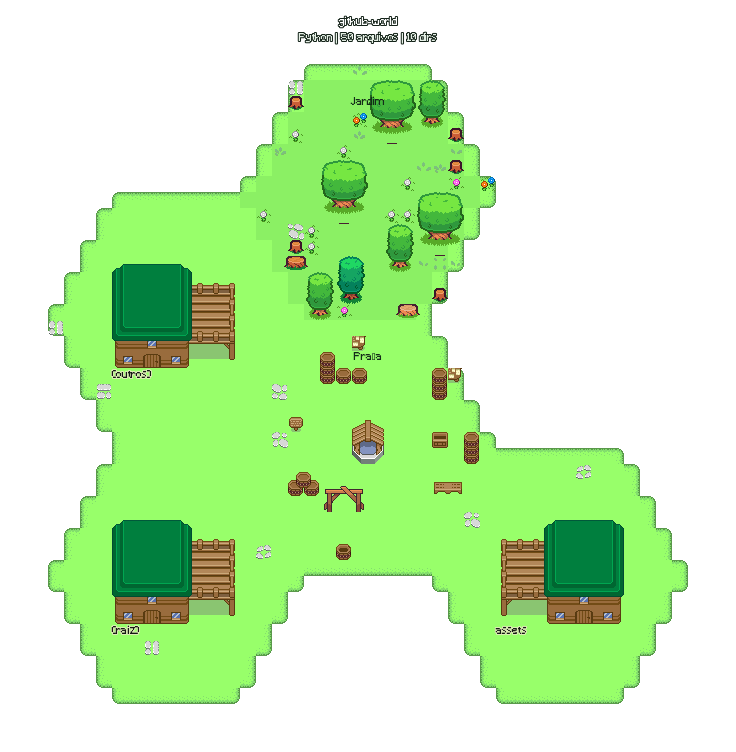
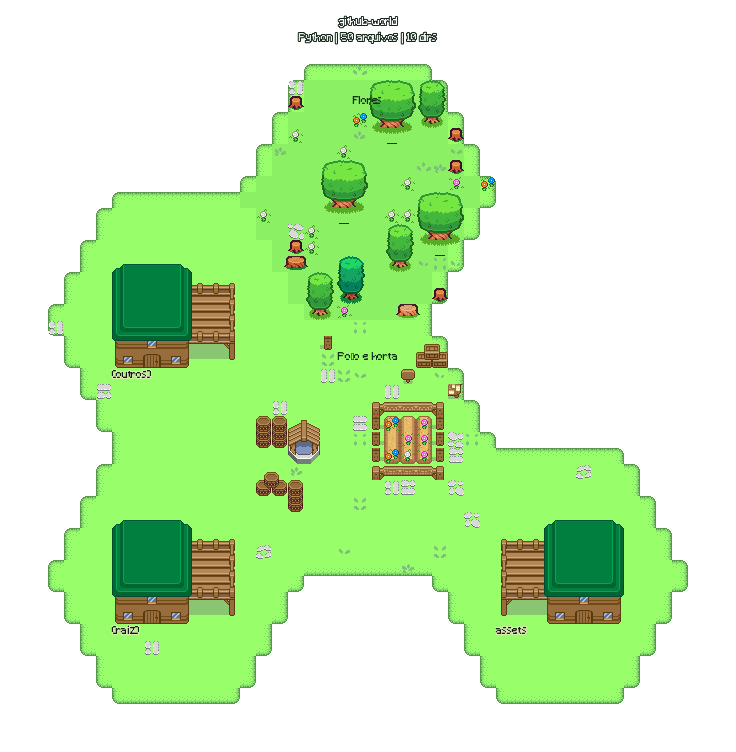
feat: implementação de um sistema de documentação que controla as características do mapa baseada no tamanho do repositório.

diff --git a/layout.py b/layout.py
@@ -5,7 +5,7 @@ import hashlib
 import random
 from assets import assets, DECORATION_GROUPS
 from repo_profile import DirectoryProfile
-from visual_config import flower_assets_for, tree_assets_for
+from visual_config import farm_settings, flower_assets_for, tree_assets_for
 
 TILE_SIZE = 16
 DIRECTIONS = ((1, 0), (1, -1), (0, -1), (-1, 0), (-1, 1), (0, 1))
@@ -42,6 +42,7 @@ class Island:
     width: int
     height: int
     objects: list = field(default_factory=list)
+    overlays: list = field(default_factory=list)
     paths: set = field(default_factory=set)
     occupied: set = field(default_factory=set)
     districts: list = field(default_factory=list)
@@ -57,6 +58,14 @@ class Island:
             return False
         self.occupied.update(cells)
         self.objects.append((name, x, y))
+        return True
+
+    def overlay(self, name, x, y, allowed=None):
+        tile = assets.get(name)
+        cells = {(a, b) for a in range(x, x+tile.width) for b in range(y, y+tile.height)}
+        if not cells <= (self.ground if allowed is None else allowed):
+            return False
+        self.overlays.append((name, x, y))
         return True
 
 
@@ -116,6 +125,7 @@ def build_colony(profile):
     for district in sorted(visible,key=lambda d: d.name):
         attach(modules,district.name,'house',profile.name)
     attach(modules,'garden0','garden',profile.name)
+    farm = farm_settings(profile)
     terrain = set().union(*(hex_cells(m.q, m.r) for m in modules))
     min_x, min_y = min(x for x,y in terrain), min(y for x,y in terrain)
     shift_x, shift_y = -min_x, -min_y
@@ -146,8 +156,48 @@ def build_colony(profile):
         elif m.kind == 'plaza':
             name = 'm13' if (profile.days_inactive or 0) > 90 else 'm18'
             if profile.days_inactive is None:
-                name = 'm21'
-            island.place(name,cx-1,cy-2,m.cells)
+                name = 'm18'
+            island.place(name,cx-5,cy-2,m.cells)
+            if farm['enabled']:
+                # A horta divide a praça com o poço. Pedras formam o limite
+                # visual e as flores usam uma camada acima dos canteiros.
+                bed_xs = list(range(cx+1,cx+4))[:farm['beds']]
+                bed_top, bed_bottom = cy-2, cy
+                farm_rng = random.Random(f'{profile.name}/farm')
+                for x in bed_xs:
+                    island.place('h',x,bed_top,m.cells)
+                fence_left, fence_right = bed_xs[0]-1, bed_xs[-1]+1
+                fence_top, fence_bottom = bed_top-1, bed_bottom+1
+                island.place('farm_fence_tl',fence_left,fence_top,m.cells)
+                island.place('farm_fence_tr',fence_right,fence_top,m.cells)
+                island.place('farm_fence_bl',fence_left,fence_bottom,m.cells)
+                island.place('farm_fence_br',fence_right,fence_bottom,m.cells)
+                for x in range(fence_left+1,fence_right):
+                    island.place('farm_fence_top',x,fence_top,m.cells)
+                    island.place('farm_fence_bottom',x,fence_bottom,m.cells)
+                for y in range(fence_top+1,fence_bottom):
+                    island.place('farm_fence_left',fence_left,y,m.cells)
+                    island.place('farm_fence_right',fence_right,y,m.cells)
+
+                # As pedras são sorteadas apenas no anel exterior da cerca.
+                outer_rocks = (
+                    [(x,fence_top-1) for x in range(fence_left-1,fence_right+2)]
+                    + [(x,fence_bottom+1) for x in range(fence_left-1,fence_right+2)]
+                    + [(fence_left-1,y) for y in range(fence_top,fence_bottom+1)]
+                    + [(fence_right+1,y) for y in range(fence_top,fence_bottom+1)]
+                )
+                outer_rocks = list(dict.fromkeys(outer_rocks))
+                farm_rng.shuffle(outer_rocks)
+                placed_rocks = 0
+                for x,y in outer_rocks:
+                    if island.place(f'r{farm_rng.randint(1,10)}',x,y,m.cells):
+                        placed_rocks += 1
+                        if placed_rocks >= farm['extra_rocks']:
+                            break
+                flower_spots = [(x,y) for y in range(bed_top,bed_bottom+1) for x in bed_xs]
+                farm_rng.shuffle(flower_spots)
+                for x,y in flower_spots[:farm['flowers']]:
+                    island.overlay(farm_rng.choice(DECORATION_GROUPS['flowers']),x,y,m.cells)
     lookup = {(m.q,m.r): m for m in modules}
     for m in modules:
         if m.parent is not None:
@@ -193,8 +243,15 @@ def build_colony(profile):
             decorate_exact(flowers)
             decorate([f'f{i}' for i in range(1,11)],6 + min(profile.max_depth,3))
         elif m.kind == 'plaza':
-            decorate(DECORATION_GROUPS['activity'],min(8,1+profile.recent_commits//5) if profile.recent_commits else 0)
-            decorate(['m21'],1)
+            cx,cy = m.center
+            # Barris agrupados num pequeno depósito, em vez de espalhados.
+            barrel_pattern = [
+                ('m9',cx-7,cy-2), ('m9',cx-6,cy-2),
+                ('m6',cx-7,cy+1), ('m9',cx-5,cy+2),
+            ]
+            for name,x,y in barrel_pattern[:farm['barrels']]:
+                island.place(name,x,y,m.cells)
+            decorate([f'f{i}' for i in range(1,11)],farm['grass'])
             if profile.has_docs:
                 decorate(DECORATION_GROUPS['signs'],1)
             if profile.has_tests:
@@ -211,6 +268,7 @@ def translate(island, dx, dy):
         return {(x+dx,y+dy) for x,y in points}
     island.ground, island.paths, island.occupied = map(move,(island.ground,island.paths,island.occupied))
     island.objects = [(name,x+dx,y+dy) for name,x,y in island.objects]
+    island.overlays = [(name,x+dx,y+dy) for name,x,y in island.overlays]
     island.districts = [(d,x+dx,y+dy) for d,x,y in island.districts]
     island.entrance = island.entrance[0]+dx,island.entrance[1]+dy
     island.exit = island.exit[0]+dx,island.exit[1]+dy

diff --git a/assets.py b/assets.py
@@ -26,6 +26,8 @@ ASSET_GLOSSARY = {
     "x": "Special tiles / entradas e outros elementos especiais",
 
     "m": "Map / elementos do mapa ou minimapa",
+
+    "h": "horta / horta",
 }
 
 
@@ -114,6 +116,20 @@ assets.add(Tile(
     Ilhas,
     col=2,   # ajustar
     row=3
+))
+
+
+# =========================
+# horta
+# =========================
+
+assets.add(Tile(
+    "h",
+    Ilhas,
+    col=15,
+    row=9,
+    width=1,
+    height=3
 ))
 
 
@@ -738,7 +754,18 @@ assets.add(Tile("grass7", grama, col=12, row=2))
 assets.add(Tile("grass8", grama, col=13, row=2))
 
 DECORATION_GROUPS["flowers"] = ["flower1", "flower2", "flower3"]
-ASSET_GLOSSARY.update({"t": "Árvores", "flower": "Flores", "wood": "Madeira antiga", "floor": "Pisos antigos", "grass": "Grama antiga", "y": "Mapa"})
+
+# Cerca modular da horta: cantos, laterais e segmentos horizontais.
+assets.add(Tile("farm_fence_tl", Ilhas, col=5, row=4))
+assets.add(Tile("farm_fence_top", Ilhas, col=6, row=4))
+assets.add(Tile("farm_fence_tr", Ilhas, col=7, row=4))
+assets.add(Tile("farm_fence_left", Ilhas, col=5, row=5))
+assets.add(Tile("farm_fence_right", Ilhas, col=7, row=5))
+assets.add(Tile("farm_fence_bl", Ilhas, col=5, row=6))
+assets.add(Tile("farm_fence_bottom", Ilhas, col=6, row=6))
+assets.add(Tile("farm_fence_br", Ilhas, col=7, row=6))
+
+ASSET_GLOSSARY.update({"t": "Árvores", "flower": "Flores", "farm_fence": "Cerca da horta", "wood": "Madeira antiga", "floor": "Pisos antigos", "grass": "Grama antiga", "y": "Mapa"})
 
 # Centro do bloco de terra; e1 é decorativo no tileset consolidado.
 assets.add(Tile('path1', Ilhas, col=1, row=6))

diff --git a/renderer.py b/renderer.py
@@ -92,6 +92,8 @@ def render_map(islands, dimensions):
                 paste_asset(canvas, 'path1', x,y)
         for name,x,y in sorted(island.objects, key=lambda obj: (obj[2]+assets.get(obj[0]).height,obj[1])):
             paste_asset(canvas,name,x,y)
+        for name,x,y in sorted(island.overlays, key=lambda obj: (obj[2],obj[1])):
+            paste_asset(canvas,name,x,y)
         # Rótulos próprios para identificar os bairros representados.
         for district,x,y in island.districts:
             text = district.name
@@ -103,7 +105,7 @@ def render_map(islands, dimensions):
         title = p.name + (' *' if p.incomplete else '')
         draw.text((center,(island.y-3)*TILE_SIZE),title,font=font,anchor='mt',fill='white',stroke_width=1,stroke_fill=(20,35,25,255))
         draw.text((center,(island.y-2)*TILE_SIZE),f'{p.main_language} | {p.files} arquivos | {p.directories} dirs',font=font,anchor='mt',fill=(230,240,230,255),stroke_width=1,stroke_fill=(20,35,25,255))
-        labels = {'plaza': 'Praça', 'garden': 'Jardim', 'workshop': 'Oficina', 'tests': 'Testes', 'docs': 'Documentação'}
+        labels = {'plaza': 'Poço e horta', 'garden': 'Flores', 'workshop': 'Oficina', 'tests': 'Testes', 'docs': 'Documentação'}
         for module in island.modules:
             if module.kind in labels:
                 cx,cy = module.center

diff --git a/visual_config.py b/visual_config.py
@@ -87,3 +87,17 @@ def flower_assets_for(profile, config=None):
         raise ValueError('Nenhum asset configurado para vegetation.flowers.assets')
     rng = random.Random(f'{profile.name}/flower-variants')
     return [rng.choice(variants) for _ in range(density)]
+
+
+def farm_settings(profile, config=None):
+    farm = (config or load_visual_config()).get('farm', {})
+    settings = dict(farm.get('defaults', {}))
+    settings.update(farm.get('repositories', {}).get(profile.name, {}))
+    return {
+        'enabled': bool(settings.get('enabled', True)),
+        'beds': max(1, min(3, int(settings.get('beds', 3)))),
+        'flowers': max(0, min(12, int(settings.get('flowers', 5)))),
+        'extra_rocks': max(0, min(12, int(settings.get('extra_rocks', 5)))),
+        'grass': max(0, min(20, int(settings.get('grass', 8)))),
+        'barrels': max(0, min(4, int(settings.get('barrels', 3)))),
+    }

diff --git a/tests/test_world.py b/tests/test_world.py
@@ -66,6 +66,10 @@ class ProfileTests(unittest.TestCase):
         island = build_layout([profile_repository(data)])[0][0]
         modules = {(m.q, m.r): m for m in island.modules}
         self.assertEqual({m.kind for m in island.modules}, {'plaza', 'house', 'garden'})
+        self.assertEqual(sum(name == 'h' for name,x,y in island.objects), 3)
+        self.assertEqual(sum(name.startswith('farm_fence_') for name,x,y in island.objects), 16)
+        self.assertEqual(len(island.overlays), 6)
+        self.assertTrue(all(name.startswith('flower') for name,x,y in island.overlays))
         for module in island.modules[1:]:
             parent = modules[module.parent]
             self.assertIn((module.q-parent.q, module.r-parent.r), DIRECTIONS)

diff --git a/README.md b/README.md
@@ -112,6 +112,29 @@ flowers:
 
 `default_density` é a quantidade padrão. `rules` pode alterar esse valor usando as mesmas condições das árvores, e `repositories.NOME.density` define a quantidade exata para um repositório. A escolha das variantes e posições é aleatória, mas estável para o mesmo nome de projeto.
 
+## Horta
+
+A horta compartilha a honeycomb da praça com o poço. O canteiro usa o asset `h` registrado em `assets.py`; a composição repete até três canteiros, monta uma cerca de madeira, posiciona pedras somente no lado externo da cerca e desenha flores numa camada acima dos canteiros. Barris ficam agrupados como um pequeno depósito, enquanto a folhagem adicional completa essa área. A configuração fica em `world.yaml`:
+
+```yaml
+farm:
+  defaults:
+    enabled: true
+    beds: 3
+    flowers: 6
+    extra_rocks: 5
+    grass: 8
+    barrels: 3
+
+  repositories:
+    github-world:
+      enabled: true
+      beds: 3
+      flowers: 7
+```
+
+`enabled` adiciona ou remove a horta da praça, `beds` controla de um a três canteiros e `flowers` controla quantas posições recebem flores, até o número de espaços disponível sobre os canteiros. `extra_rocks` e `grass` regulam a densidade da área, enquanto `barrels` aceita de zero a quatro barris organizados. As variantes e posições continuam determinísticas.
+
 Quando há mais de três bairros, os dois com mais arquivos aparecem individualmente e os demais são somados na casa `(outros)`. A interpretação dos dados mantém até seis grupos; o layout compacto reúne esses grupos em até três casas sem perder a contagem de arquivos. Arquivos da raiz formam o bairro `(raiz)`. Repositórios vazios recebem uma construção com o rótulo `(sem arquivos)`.
 
 Os assets de casas 1 e 2 têm a mesma área de recorte, mas desenhos diferentes; a variante 3 é maior. As métricas orientam escolhas visuais, sem representar uma medida formal de qualidade do projeto. Dependências são contadas por manifestos detectados, sem analisar pacotes individuais.
@@ -120,7 +143,7 @@ A coleta usa a árvore da branch padrão, linguagens e até 100 commits dos últ
 
 ## Crescimento em honeycomb
 
-Cada colônia começa com uma praça, recebe até três módulos de casas e um jardim: no máximo cinco hexágonos por repositório. Documentação, testes e dependências compartilham a praça, evitando módulos extras. A escolha considera o nome do repositório e a identidade do módulo, com variações reproduzíveis que deixam braços e espaços vazios no contorno.
+Cada colônia começa com uma praça que reúne o poço e a horta, recebe até três módulos de casas e um jardim: no máximo cinco hexágonos por repositório. Documentação, testes e dependências compartilham a praça, evitando módulos extras. A escolha considera o nome do repositório e a identidade do módulo, com variações reproduzíveis que deixam braços e espaços vazios no contorno.
 
 Cada hexágono tem 16 × 16 tiles, com 20% menos área de terreno que a versão anterior. As casas 1 e 2 mantêm seus sprites; a casa 3 usa uma variante de 10 × 7 tiles, redimensionada com vizinho mais próximo para preservar a nitidez da pixel art. Os recortes originais continuam no catálogo. Os lados compartilhados desaparecem na renderização: a ilha tem terreno contínuo, jardins com tonalidade suave e uma costa em degraus de pixel art. Os caminhos ligam as portas e os módulos, contornam construções e chegam às pontes. O personagem caminha sobre um trecho real desses caminhos.
 
